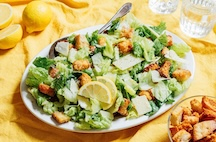
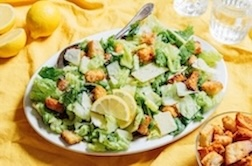
Add files via upload

diff --git a/Hotmenu.html b/Hotmenu.html
@@ -1,26 +1,44 @@
-<!DOCTYPE html>
-<html>
-<head>
-	<title>Snack Shack Hot Foods Menu</title>
-	<link href="style.css" type="text/css" rel="stylesheet"/>
-</head>
-<body>
+	<!DOCTYPE html>
+	<html>
 
-<h1><center>Snack Shack: Hot Foods Menu</center></h1>
+	<head>
+		<div>
+		<title>Snack Shack Hot Foods Menu</title>
+		<link href="style.css" type="text/css" rel="stylesheet"/>
+		</div>
+	</head>
 
-<a href="Homepage.html" Homepage><center><h2>Homepage</h2></center></a>
+	<body>
 
-<table border=1>
+	<div>
+	<h1><center>Snack Shack: Hot Foods Menu</center></h1>
+	</div>
 
-<tr>
-	<td>Classic French Fries</td>
-	<td><img src="fries.jpg" alt="Fries"></td>
-</tr>
+	<a href="Homepage.html" Homepage><center><h2>Homepage</h2></center></a>
 
-<tr>
-	<td>Classic Burger</td>
-	<td><img src="burger.jpg" alt="Burger"></td>
-</tr>
+	<table border=1>
 
-</body>
-</html>
+	<div>
+	<tr>
+		<td>Classic French Fries</td>
+		<td><img src="fries.jpg" alt="Fries"></td>
+	</tr>
+	</div>
+
+	<div>
+	<tr>
+		<td>Classic Burger</td>
+		<td><img src="burger.jpg" alt="Burger"></td>
+	</tr>
+	</div>
+
+	<div>
+	<tr>
+		<td>Chicken Nuggest</td>
+		<td><img src="chickennugs.html" alt="Chicken Nuggets"></td>
+	</tr>
+	</div>
+
+
+	</body>
+	</html>

diff --git a/Homepage.html b/Homepage.html
@@ -1,23 +1,37 @@
 <!DOCTYPE html>
 <html>
+<br>
+<br>
 <head>
-	<title>EHE Shack Squad</title>
-	<link href="style.css" type="text/css" rel="stylesheet"/>
+	<title> Shack Squad</title>
+	<link href= "style.css" type="text/css" rel="stylesheet"/>
+
+
 </head>
 
 <body>
-<h2><center>EHE Snack Shack</center></h2>
-
-<p><center>Welcome to the EHE Shack Squad business! Located in Flip-Flop Lagoon, we have been open since 2026. Here you can find some fun foods, both savory and sweet, to try while you're here! Take a look at our website to mobile order your favorite cravings or preview some delicious snacks you cannot wait to try when you come and visit.
-	</center><p>
+<center><i><div id = "beach" ><h2 id="shack"> EHE Shack Squad</h2></div></center>
+	<br>
+	<br>
+	<br>
+<p><center><h4 style="color: #279AF1;">Welcome to the EHE Shack Squad business! Located in Flip-Flop Lagoon, we have been open since 2026. Here you can find some fun foods, both savory and sweet, to try while you're here! Take a look at our website to mobile order your favorite cravings or preview some delicious snacks you cannot wait to try when you come and visit.
+</h4></center><p> 
 
 <p><center>
-Below you can find links to our menu!
-</center></p>
+<h2 style="color: #07325F;"> Below you can find links to our menu!</h2>
+</center></i></p>
 
-	<a href="Hotmenu.html"><center>Snack Shack Hot Foods Menu</center></a>
-	<a href="Coldmenu.html"><center>Snack Shack Cold Foods Menu</center></a>
-	<a href="Sweettreatmenu.html"><center>Snack Shack Sweet Treats Menu</center></a>
+<div class="h1">
+</div>
+
+<div class="container">
+
+	<div><a style="color: #279AF1;"href="Hotmenu.html"target="_blank"><center>Snack Shack Hot Foods Menu</center> </a></div>
+
+	<div><a style="color: #279AF1;"href="Coldmenu.html"target="_blank"><center>Snack Shack Cold Foods Menu</center></a></div>
+
+	<div><a style="color: #279AF1;"href="Sweettreatmenu.html"target="_blank"><center>Snack Shack Sweet Treats Menu</center></a></div>
+</div>
 
 </body>
 </html>

diff --git a/style.css b/style.css
@@ -1,6 +1,4 @@
-body {
-	background-color: #E7ECEF;
-}
+
 
 h2 {
 	color: #06324B;
@@ -10,3 +8,20 @@ p {
 	color: #8BDCF9;
 }
 
+
+#shack{
+	color: #07325F;
+	font-size:60px;
+}
+
+#beach{
+	background-image: url("beach.jpg");
+}
+
+.header { 
+    background-image: url("beach.jpg");
+    padding: 100px 0; 
+    background-size: cover; 
+    background-position: center;
+    text-align: center; 
+}

diff --git a/Coldmenu.html b/Coldmenu.html
@@ -11,10 +11,17 @@
 <a href="Homepage.html" Homepage><center><h2>Homepage</h2></center></a>
 
 <table border=1>
-
+<p><center><h4 style="color: #279AF1;">Here you can find some delicious cold dishes to munch on! From salads, to fruit plates. We've got it all!
+</h4></center></center><p> 
 <tr>
+	
 	<td>Classic Ceaser</td>
-	<td><img src="ceasersalad.jpg" alt="Ceaser Salad"fries></td>
-
+	<td><img src="ceasersalad.jpg" alt="Ceaser Salad"></td>
+</tr>
+<tr>
+	<td>Poke Bowl</td>
+	<td><img src="pokebowl.jpg" alt="Poke Bowl"></td>
+</tr>
+</div>
 </body>
 </html>

diff --git a/Sweettreatmenu.html b/Sweettreatmenu.html
@@ -17,8 +17,19 @@
 	
 	</td>
 	<td><img src="shavedice.jpg" alt="Shaved Ice"></td>
+</tr>
+<tr>
+	<td> Soft Serve:
 
-	<td>
+	</td>
+<td><img src="softserve.jpeg" alt="Soft Serve"></td>
+
+<tr>
+	<td>Cake Pop: 
+	
+	</td>
+	<td><img src="cakepop.jpg" alt="Cakepop"></td>
+</tr>
 
 </body>
 </html>